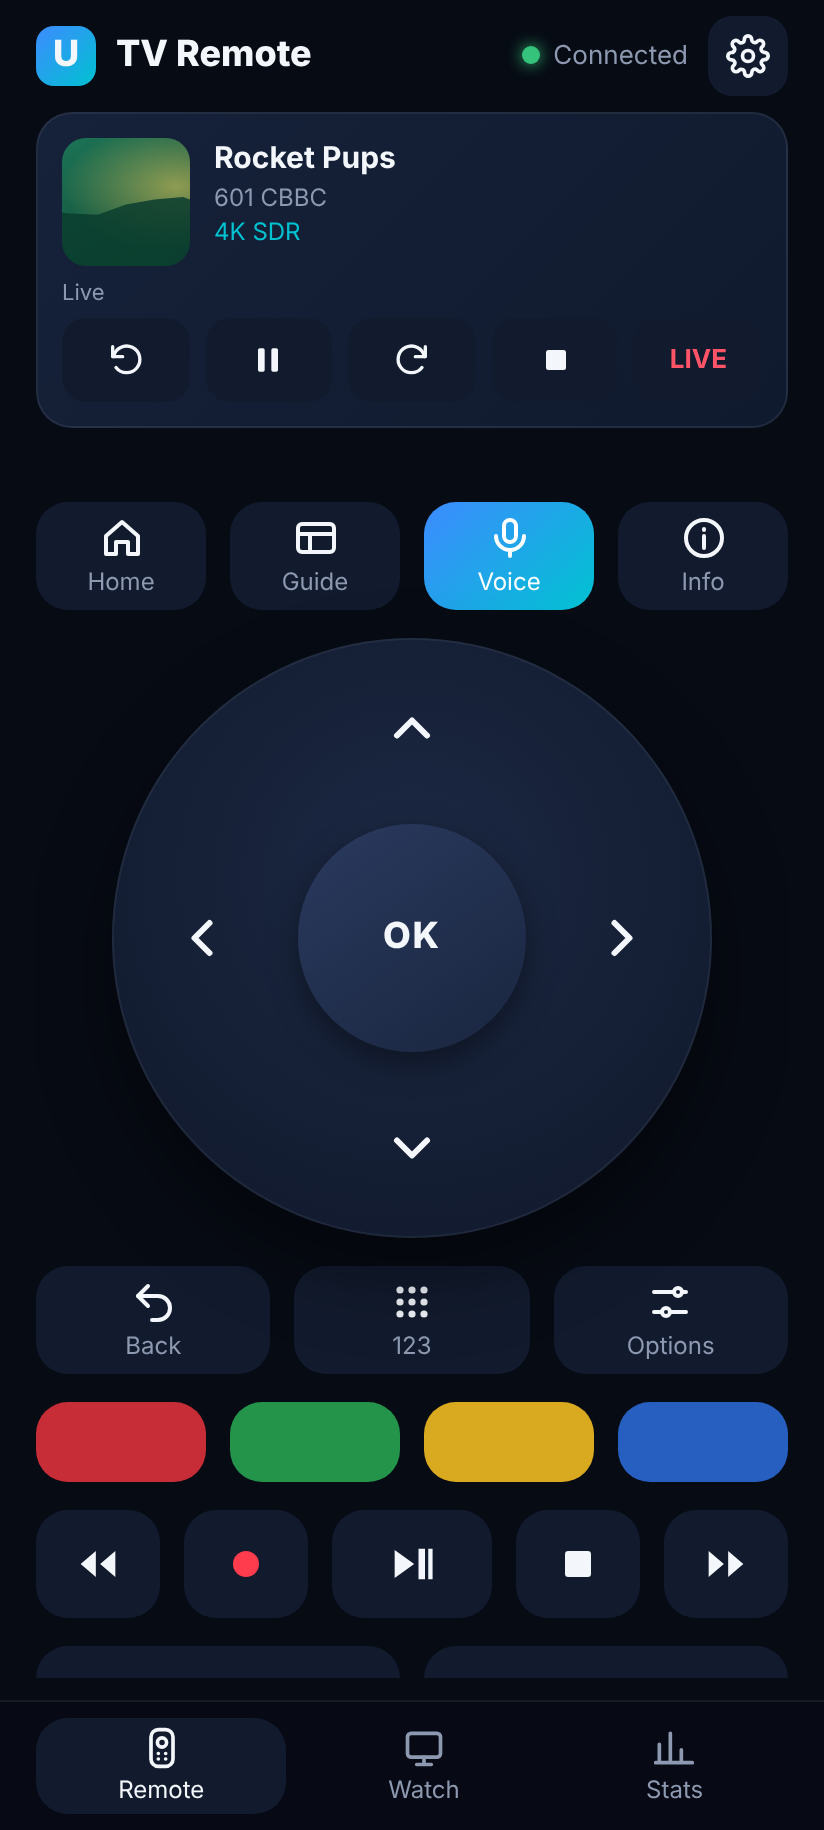
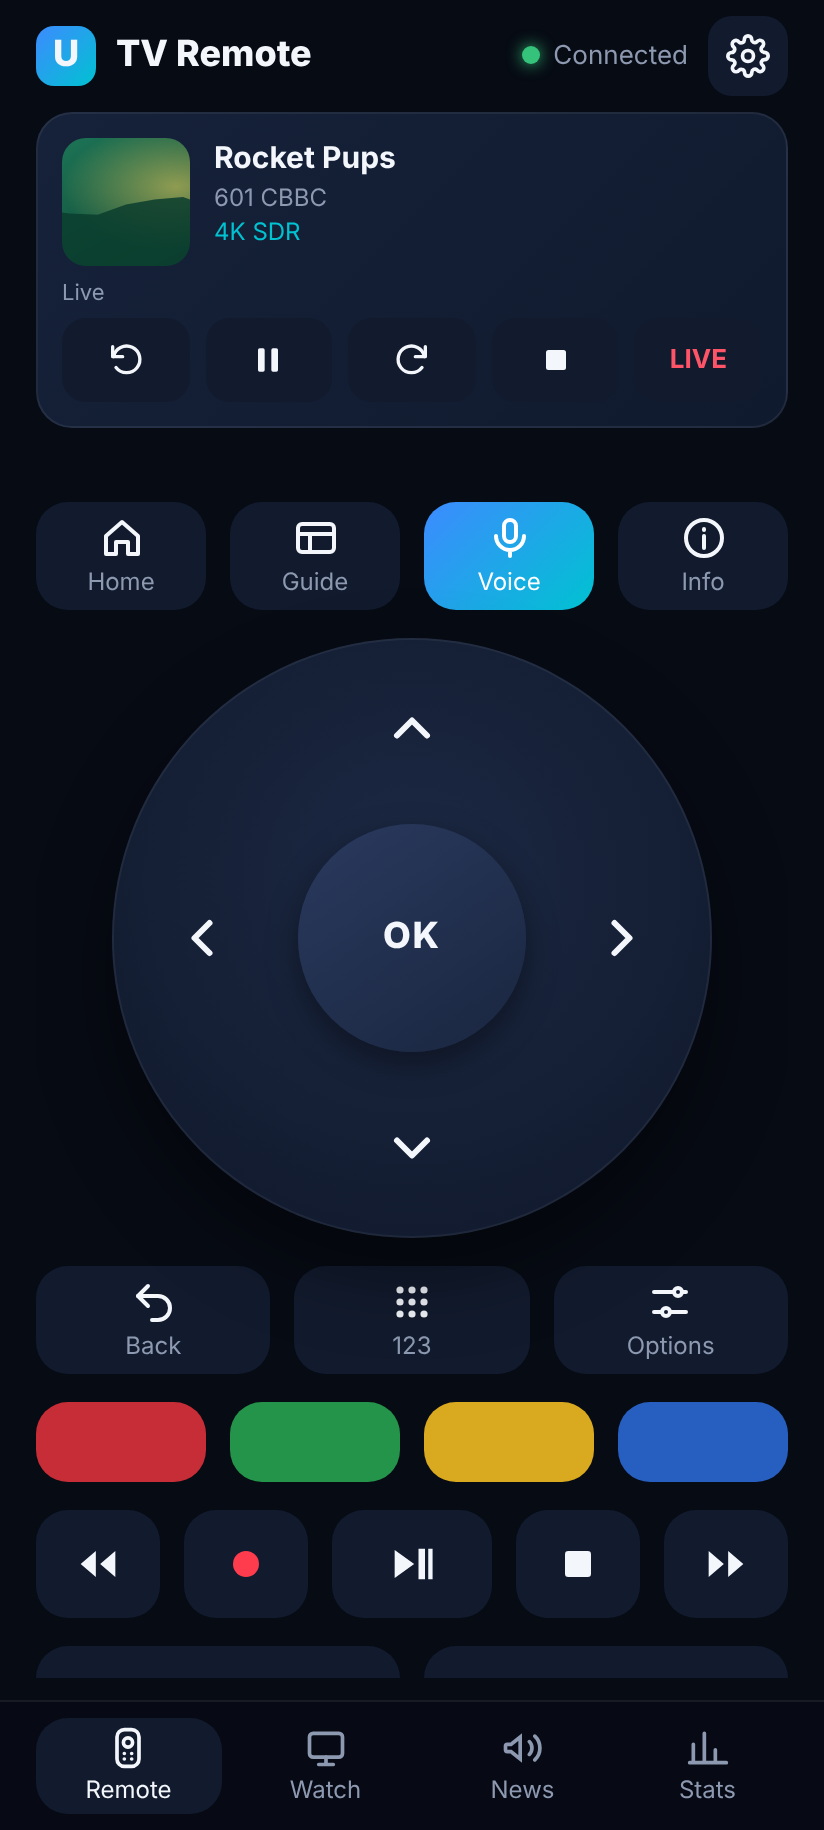
Breaking news flash from the phone
The phone remote's News button puts a BBC News style bar along the bottom of
the TV over anything, with a custom message and channel name, for a set time
or until taken down. The Hub keeps the current flash so a reconnecting TV
shows it, and sends the time left so the box's clock doesn't matter.

Claude-Session: https://claude.ai/code/session_01VXt4AzYgghRd85DvQafdB8

diff --git a/hub/public/remote/phone.js b/hub/public/remote/phone.js
@@ -236,6 +236,71 @@
   }
 
   // ---------------------------------------------------------------------------
+  // News flash: a "breaking news" bar along the bottom of the TV, over anything.
+
+  const FLASH_TIMES = [[30, "30 sec"], [60, "1 min"], [300, "5 min"], [900, "15 min"], [0, "Until I clear it"]];
+  let flashLabel = "BBC NEWS";
+  let flashSeconds = 60;
+  try {
+    flashLabel = localStorage.getItem("utv-flash-label") || flashLabel;
+    flashSeconds = Number(localStorage.getItem("utv-flash-seconds") ?? flashSeconds);
+  } catch {}
+  async function newsSheet() {
+    const { flash } = await get("/api/flash").catch(() => ({ flash: null }));
+    openSheet(`<h2>Breaking news</h2>
+      <p class="meta">Shows along the bottom of the TV, over whatever is on.</p>
+      <div class="flash-preview"><b id="fl-pl"></b><i>BREAKING NEWS</i><span id="fl-pt"></span></div>
+      <textarea id="fl-text" maxlength="280" placeholder="Type the news…"></textarea>
+      <input class="field" id="fl-label" maxlength="24" placeholder="Channel name" autocomplete="off">
+      <h3>Show it for</h3>
+      <div class="seg" id="fl-time">${FLASH_TIMES.map(([s, l]) => `<button type="button" data-s="${s}" class="${s === flashSeconds ? "on" : ""}">${esc(l)}</button>`).join("")}</div>
+      <div class="actions"><button class="primary" id="fl-send">Show on the TV</button>${flash ? `<button id="fl-clear">Take it down</button>` : ""}</div>
+      ${flash ? `<p class="meta">On now: ${esc(flash.text)}</p>` : ""}
+      <button class="link" data-close>Close</button>`);
+    const text = $("fl-text");
+    const label = $("fl-label");
+    label.value = flashLabel;
+    if (flash) text.value = flash.text;
+    const preview = () => {
+      $("fl-pl").textContent = label.value.trim() || "BBC NEWS";
+      $("fl-pt").textContent = text.value.trim() || "Your news here";
+    };
+    text.oninput = label.oninput = preview;
+    preview();
+    for (const b of $("fl-time").querySelectorAll("button")) {
+      b.onclick = () => {
+        flashSeconds = Number(b.dataset.s);
+        for (const x of $("fl-time").querySelectorAll("button")) x.classList.toggle("on", x === b);
+      };
+    }
+    $("fl-send").onclick = async () => {
+      if (!text.value.trim()) return toast("Type the news first", true);
+      flashLabel = label.value.trim() || "BBC NEWS";
+      try {
+        localStorage.setItem("utv-flash-label", flashLabel);
+        localStorage.setItem("utv-flash-seconds", String(flashSeconds));
+      } catch {}
+      try {
+        await post("/api/flash", { text: text.value, label: flashLabel, seconds: flashSeconds });
+        closeSheet();
+        toast("On the TV now");
+      } catch (e) {
+        toast(e.message, true);
+      }
+    };
+    if (flash) {
+      $("fl-clear").onclick = async () => {
+        const r = await fetch("/api/flash", { method: "DELETE" }).catch(() => null);
+        if (!r?.ok) return toast("Can't reach the Hub", true);
+        closeSheet();
+        toast("Taken down");
+      };
+    }
+    text.focus();
+  }
+  $("news-btn").addEventListener("click", () => void newsSheet());
+
+  // ---------------------------------------------------------------------------
   // Browse
 
   let current = "guide";

diff --git a/hub/src/server.ts b/hub/src/server.ts
@@ -7,7 +7,7 @@ import fastifyWebsocket from "@fastify/websocket";
 import Fastify, { type FastifyInstance, type FastifyRequest } from "fastify";
 import QRCode from "qrcode";
 import { MUSIC_LOGIN_PAGE, MusicLogins } from "./musiclogin.js";
-import type { BoxState, TvMethod, Certification, Channel, ChannelCategory, GuideChoices, GuideWindow, HubStatus, IptvSource, MixChannel, PlaybackRequest, ProfileKind, ProgrammeMark, Settings, TitleRef } from "@ultimatetv/shared";
+import type { BoxState, NewsFlash, TvMethod, Certification, Channel, ChannelCategory, GuideChoices, GuideWindow, HubStatus, IptvSource, MixChannel, PlaybackRequest, ProfileKind, ProgrammeMark, Settings, TitleRef } from "@ultimatetv/shared";
 import { renderMatrix, validateReport, type ProbeReport } from "@ultimatetv/shared";
 import { listClips } from "./clips.js";
 import { guideBlocks, mixLogo } from "./mixchannels.js";
@@ -347,6 +347,34 @@ export async function buildServer(config: HubConfig, deps: ServerDeps = {}): Pro
   });
   app.post("/api/remote/text", async (req: Req<Record<string, string>, Record<string, string>, { text?: string }>) => {
     ctx.events.emit({ type: "remote.text", text: String(req.body?.text ?? "").slice(0, 120) });
+    return { ok: true };
+  });
+  // A news flash along the bottom of the TV, typed on the phone. Kept so a TV that reconnects shows it too.
+  let flash: NewsFlash | null = null;
+  const currentFlash = () => {
+    if (flash && flash.until !== null && flash.until <= Date.now()) flash = null;
+    return flash && { ...flash, leftMs: flash.until === null ? null : flash.until - Date.now() };
+  };
+  app.get("/api/flash", async () => ({ flash: currentFlash() }));
+  app.post("/api/flash", async (req: Req<Record<string, string>, Record<string, string>, { text?: string; label?: string; seconds?: number }>, reply) => {
+    const text = String(req.body?.text ?? "").replace(/\s+/g, " ").trim().slice(0, 280);
+    if (!text) return reply.code(400).send({ error: "Write the news first" });
+    const seconds = Number(req.body?.seconds ?? 60);
+    const now = Date.now();
+    flash = {
+      text,
+      label: String(req.body?.label ?? "").trim().slice(0, 24) || "BBC NEWS",
+      until: Number.isFinite(seconds) && seconds > 0 ? now + Math.min(seconds, 24 * 3600) * 1000 : null,
+      leftMs: null,
+      at: now,
+    };
+    const sent = currentFlash();
+    ctx.events.emit({ type: "flash", flash: sent });
+    return { flash: sent };
+  });
+  app.delete("/api/flash", async () => {
+    flash = null;
+    ctx.events.emit({ type: "flash", flash: null });
     return { ok: true };
   });
   /** A QR code for a web address the TV shows, such as Spotify's sign-in page. */

diff --git a/ui/src/components/NewsFlash.tsx b/ui/src/components/NewsFlash.tsx
@@ -1,0 +1,63 @@
+// The phone's news flash: a "breaking news" bar along the bottom of the TV, over whatever is on,
+// in the style of the BBC News channel. The text scrolls when it's too long to fit.
+
+import { createSignal, onCleanup, onMount, Show } from "solid-js";
+import type { NewsFlash as Flash } from "@ultimatetv/shared";
+import { api } from "../api";
+import { onHubEvent } from "../events";
+
+const clockText = () => new Date().toLocaleTimeString("en-GB", { hour: "2-digit", minute: "2-digit" });
+
+export function NewsFlash() {
+  const [flash, setFlash] = createSignal<Flash | null>(null);
+  const [clock, setClock] = createSignal(clockText());
+  const [scroll, setScroll] = createSignal(0);
+  let hideTimer: number | undefined;
+  let strip: HTMLDivElement | undefined;
+  let line: HTMLSpanElement | undefined;
+
+  const show = (f: Flash | null) => {
+    window.clearTimeout(hideTimer);
+    // Timed by what the Hub says is left, not by `until`: the box's clock may not match the Hub's.
+    if (f && f.leftMs !== null && f.leftMs <= 0) f = null;
+    setFlash(f);
+    if (f && f.leftMs !== null) hideTimer = window.setTimeout(() => setFlash(null), f.leftMs);
+    // Scroll only when the words don't fit: the distance is measured once they're on screen.
+    requestAnimationFrame(() => setScroll(strip && line ? Math.max(0, line.scrollWidth - strip.clientWidth + 48) : 0));
+  };
+  const load = () => void api<{ flash: Flash | null }>("/api/flash").then((r) => show(r.flash), () => undefined);
+
+  onMount(load);
+  const off = onHubEvent((e) => {
+    if (e.type === "flash") show(e.flash);
+    if (e.type === "hello") load();
+  });
+  const tick = window.setInterval(() => setClock(clockText()), 10_000);
+  onCleanup(() => {
+    off();
+    window.clearInterval(tick);
+    window.clearTimeout(hideTimer);
+  });
+
+  return (
+    <Show when={flash()}>
+      {(f) => (
+        <div class="newsflash" role="alert">
+          <div class="newsflash-label">{f().label}</div>
+          <div class="newsflash-tag">BREAKING NEWS</div>
+          <div class="newsflash-strip" ref={strip}>
+            <span
+              class="newsflash-text"
+              classList={{ scrolling: scroll() > 0 }}
+              style={scroll() > 0 ? { "--scroll": `-${scroll()}px`, "--scroll-time": `${Math.max(8, scroll() / 60)}s` } : {}}
+              ref={line}
+            >
+              {f().text}
+            </span>
+          </div>
+          <div class="newsflash-clock">{clock()}</div>
+        </div>
+      )}
+    </Show>
+  );
+}

diff --git a/hub/public/remote/index.html b/hub/public/remote/index.html
@@ -135,6 +135,12 @@
   .actions { display: flex; gap: 10px; margin: 10px 0; }
   .actions button { flex: 1; height: 46px; border-radius: 12px; font-weight: 700; font-size: 15px; }
   .actions .primary { background: var(--accent); }
+  .sheet-body textarea, .sheet-body .field { width: 100%; border-radius: 12px; border: 1px solid rgba(255,255,255,.1); background: var(--panel); color: var(--fg); padding: 12px 14px; font: inherit; margin-bottom: 10px; }
+  .sheet-body textarea { min-height: 96px; resize: vertical; }
+  .flash-preview { display: flex; height: 30px; border-radius: 6px; overflow: hidden; font: 700 12px/30px Arial, sans-serif; margin: 2px 0 12px; }
+  .flash-preview b { background: #1a1a1a; padding: 0 8px; white-space: nowrap; }
+  .flash-preview i { font-style: normal; background: #bb1919; padding: 0 8px; white-space: nowrap; }
+  .flash-preview span { flex: 1; background: #fff; color: #111; padding: 0 8px; overflow: hidden; white-space: nowrap; text-overflow: ellipsis; font-weight: 600; }
   .row-btn { display: block; width: 100%; text-align: left; padding: 12px 14px; margin-bottom: 6px; border-radius: 12px; font-size: 14px; }
   .row-btn.on { background: var(--accent); }
   .link { display: block; width: 100%; margin-top: 10px; height: 44px; background: transparent; color: var(--muted); }
@@ -237,6 +243,7 @@
 <nav class="tabbar">
   <button data-tab="remote" class="on"><svg viewBox="0 0 24 24" fill="none" stroke="currentColor" stroke-width="2" stroke-linecap="round"><rect x="6" y="2" width="12" height="20" rx="4"/><circle cx="12" cy="9" r="2.5"/><path d="M10 15h.01M14 15h.01M10 18h.01M14 18h.01"/></svg>Remote</button>
   <button data-tab="browse"><svg viewBox="0 0 24 24" fill="none" stroke="currentColor" stroke-width="2" stroke-linecap="round"><rect x="3" y="4" width="18" height="13" rx="2"/><path d="M8 21h8M12 17v4"/></svg>Watch</button>
+  <button id="news-btn" type="button"><svg viewBox="0 0 24 24" fill="none" stroke="currentColor" stroke-width="2" stroke-linecap="round"><path d="M3 11v2a1 1 0 0 0 1 1h2l5 4V6L6 10H4a1 1 0 0 0-1 1zM16 8.5a5 5 0 0 1 0 7M19 5.5a9 9 0 0 1 0 13"/></svg>News</button>
   <a href="/setup/stats.html"><svg viewBox="0 0 24 24" fill="none" stroke="currentColor" stroke-width="2" stroke-linecap="round"><path d="M4 20V10M10 20V4M16 20v-7M22 20H2"/></svg>Stats</a>
 </nav>
 <div class="sheet" id="sheet" hidden><div class="sheet-body" id="sheet-body"></div></div>

diff --git a/ui/src/styles.css b/ui/src/styles.css
@@ -2856,3 +2856,81 @@ kbd.key-blue {
   overflow: hidden;
   text-overflow: ellipsis;
 }
+
+/* The phone's news flash, along the bottom over everything (BBC News style). */
+.newsflash {
+  position: fixed;
+  z-index: 35;
+  left: 0;
+  right: 0;
+  bottom: 4.5rem;
+  height: 4.25rem;
+  display: flex;
+  align-items: stretch;
+  pointer-events: none;
+  font-family: "Helvetica Neue", Arial, sans-serif;
+  box-shadow: 0 0.5rem 2rem rgba(0, 0, 0, 0.45);
+  animation: newsflash-in 0.35s ease-out;
+}
+.newsflash-label {
+  flex: none;
+  display: flex;
+  align-items: center;
+  padding: 0 1.4rem 0 2.5rem;
+  background: #1a1a1a;
+  color: #fff;
+  font-weight: 800;
+  font-size: 1.6rem;
+  letter-spacing: 0.04em;
+}
+.newsflash-tag {
+  flex: none;
+  display: flex;
+  align-items: center;
+  padding: 0 1.4rem;
+  background: #bb1919;
+  color: #fff;
+  font-weight: 800;
+  font-size: 1.6rem;
+  letter-spacing: 0.03em;
+}
+.newsflash-strip {
+  flex: 1;
+  min-width: 0;
+  overflow: hidden;
+  display: flex;
+  align-items: center;
+  background: #fff;
+  color: #111;
+  padding: 0 1.5rem;
+}
+.newsflash-text {
+  white-space: nowrap;
+  font-size: 1.75rem;
+  font-weight: 600;
+}
+.newsflash-text.scrolling {
+  animation: newsflash-scroll var(--scroll-time, 12s) linear 1s infinite;
+}
+.newsflash-clock {
+  flex: none;
+  display: flex;
+  align-items: center;
+  padding: 0 2.5rem 0 1.4rem;
+  background: #1a1a1a;
+  color: #fff;
+  font-weight: 700;
+  font-size: 1.6rem;
+  font-variant-numeric: tabular-nums;
+}
+@keyframes newsflash-in {
+  from { transform: translateY(150%); }
+}
+@keyframes newsflash-scroll {
+  0%, 10% { transform: translateX(0); }
+  85%, 100% { transform: translateX(var(--scroll)); }
+}
+@media (prefers-reduced-motion: reduce) {
+  .newsflash { animation: none; }
+  .newsflash-text.scrolling { animation: none; white-space: normal; font-size: 1.3rem; line-height: 1.2; }
+}

diff --git a/hub/test/server.test.ts b/hub/test/server.test.ts
@@ -157,6 +157,20 @@ describe("hub API", () => {
     expect((await app.inject({ method: "POST", url: "/api/tv/call/rm", payload: {} })).statusCode).toBe(404);
   });
 
+  it("shows a news flash from the phone until it's taken down or runs out", async () => {
+    await start();
+    expect((await app.inject({ method: "POST", url: "/api/flash", payload: { text: "  " } })).statusCode).toBe(400);
+    const sent = (await app.inject({ method: "POST", url: "/api/flash", payload: { text: "Dinner  is\nready", seconds: 30 } })).json();
+    expect(sent.flash).toMatchObject({ text: "Dinner is ready", label: "BBC NEWS" });
+    expect(sent.flash.until - sent.flash.at).toBe(30_000);
+    expect(sent.flash.leftMs).toBeGreaterThan(29_000);
+    expect((await app.inject("/api/flash")).json().flash.text).toBe("Dinner is ready");
+    await app.inject({ method: "DELETE", url: "/api/flash" });
+    expect((await app.inject("/api/flash")).json().flash).toBeNull();
+    const forever = (await app.inject({ method: "POST", url: "/api/flash", payload: { text: "Hi", label: "SKY NEWS", seconds: 0 } })).json();
+    expect(forever.flash).toMatchObject({ label: "SKY NEWS", until: null, leftMs: null });
+  });
+
   it("understands voice commands from the phone", async () => {
     await start();
     expect((await app.inject({ method: "POST", url: "/api/remote/voice", payload: { text: "pause" } })).json()).toMatchObject({ kind: "keys", actions: ["pause"], heard: "pause", tvConnected: false });

diff --git a/shared/src/domain.ts b/shared/src/domain.ts
@@ -525,6 +525,8 @@ export type HubEvent =
   /** From phone voice control: switch to a channel, or say what was understood. */
   | { type: "remote.channel"; channelId: string }
   | { type: "remote.said"; text: string }
+  /** A news flash typed on the phone, shown along the bottom of the TV over anything; null takes it down. */
+  | { type: "flash"; flash: NewsFlash | null }
   /** From the phone's settings: things only the TV app can do. "report" asks it to post its software state. */
   | { type: "box.command"; command: "update" | "reload" | "report" | "stats"; on?: boolean }
   /** The phone asks the TV app something (what's playing, play this, seek); it answers at /api/tv/reply/:id. */
@@ -547,6 +549,18 @@ export interface HubSoftware {
   /** An update has been asked for or is running. */
   updating: boolean;
   lastUpdate?: { at: string; ok: boolean };
+}
+
+/** A "breaking news" ticker along the bottom of the TV, written on the phone. */
+export interface NewsFlash {
+  text: string;
+  /** The channel name on the left of the bar ("BBC NEWS"). */
+  label: string;
+  /** When it goes by itself (ms since 1970, the Hub's clock), or null to stay until cleared. */
+  until: number | null;
+  /** How long it has left as the Hub sends it, so the TV needn't trust its clock to match the Hub's. */
+  leftMs: number | null;
+  at: number;
 }
 
 export interface SoftwareChange {

diff --git a/ui/src/App.tsx b/ui/src/App.tsx
@@ -6,6 +6,7 @@ import { createEffect, ErrorBoundary, For, Match, on, onCleanup, onMount, Show, 
 import { agent } from "./agent";
 import { ApiError, hub, session } from "./api";
 import { choose, DialogHost } from "./components/Dialog";
+import { NewsFlash } from "./components/NewsFlash";
 import { StartingCard } from "./components/Starting";
 import { startEvents, onHubEvent } from "./events";
 import { activeLayer, current, focus, focusFirst } from "./focus";
@@ -240,6 +241,7 @@ export function App() {
         </Switch>
       </ErrorBoundary>
       <Show when={starting()}>{(st) => <StartingLayer name={st().name} since={st().since} />}</Show>
+      <NewsFlash />
       <DialogHost />
       <div class="toasts">
         <For each={toasts()}>{(t) => <div class={`toast toast-${t.tone}`}>{t.message}</div>}</For>

diff --git a/CHANGELOG.md b/CHANGELOG.md
@@ -15,6 +15,9 @@ the commit they were built from in Settings › About, so you can tell exactly w
 
 ## Unreleased
 
+- Breaking news from the phone: the remote's News button puts a BBC News style "BREAKING NEWS"
+  bar along the bottom of the TV, over whatever is on, with your own message (and channel name).
+  It stays for 30 seconds to 15 minutes, or until you take it down. Needs a Hub and a box update.
 - Updating the Hub shows what's new: the Hub asks GitHub what's on main since the code it runs and
   lists the merged changes by name, with the count, on the phone's Updates and in the TV's
   Settings › About (which can now update the Hub too). Both check again every 5 minutes while open.

diff --git a/docs/phone-remote.md b/docs/phone-remote.md
@@ -58,6 +58,16 @@ for the box and the Hub, and their recent logs.
 
 ![Stats](screenshots/40-phone-stats.png)
 
+## Breaking news
+
+**News** at the bottom of the remote puts a "BREAKING NEWS" bar along the bottom of the TV, in the
+style of the BBC News channel, over whatever is on. Type the message, change the channel name if
+you like, and choose how long it stays: 30 seconds to 15 minutes, or until you take it down from
+the same screen.
+
+![News flash on the TV](screenshots/43-news-flash.png)
+![Writing it on the phone](screenshots/44-phone-news.png)
+
 ## Settings
 
 Tap ⚙ at the top of the remote for the settings page. It has everything the TV's Settings has

diff --git a/docs/screenshots/README.md b/docs/screenshots/README.md
@@ -28,3 +28,4 @@ Captured from the demo Hub (`DEMO=1`) in headless Chromium at 1920×1080, driven
 | 34, 35 | Watching Clubland TV, and the music channels in the guide, a programme per video |
 | 41, 42 | The music channel caption: the song playing, then what's coming up next |
 | 36 | The phone page that logs the TV in to Deezer |
+| 43, 44 | A breaking news flash over a film, and writing it on the phone |
